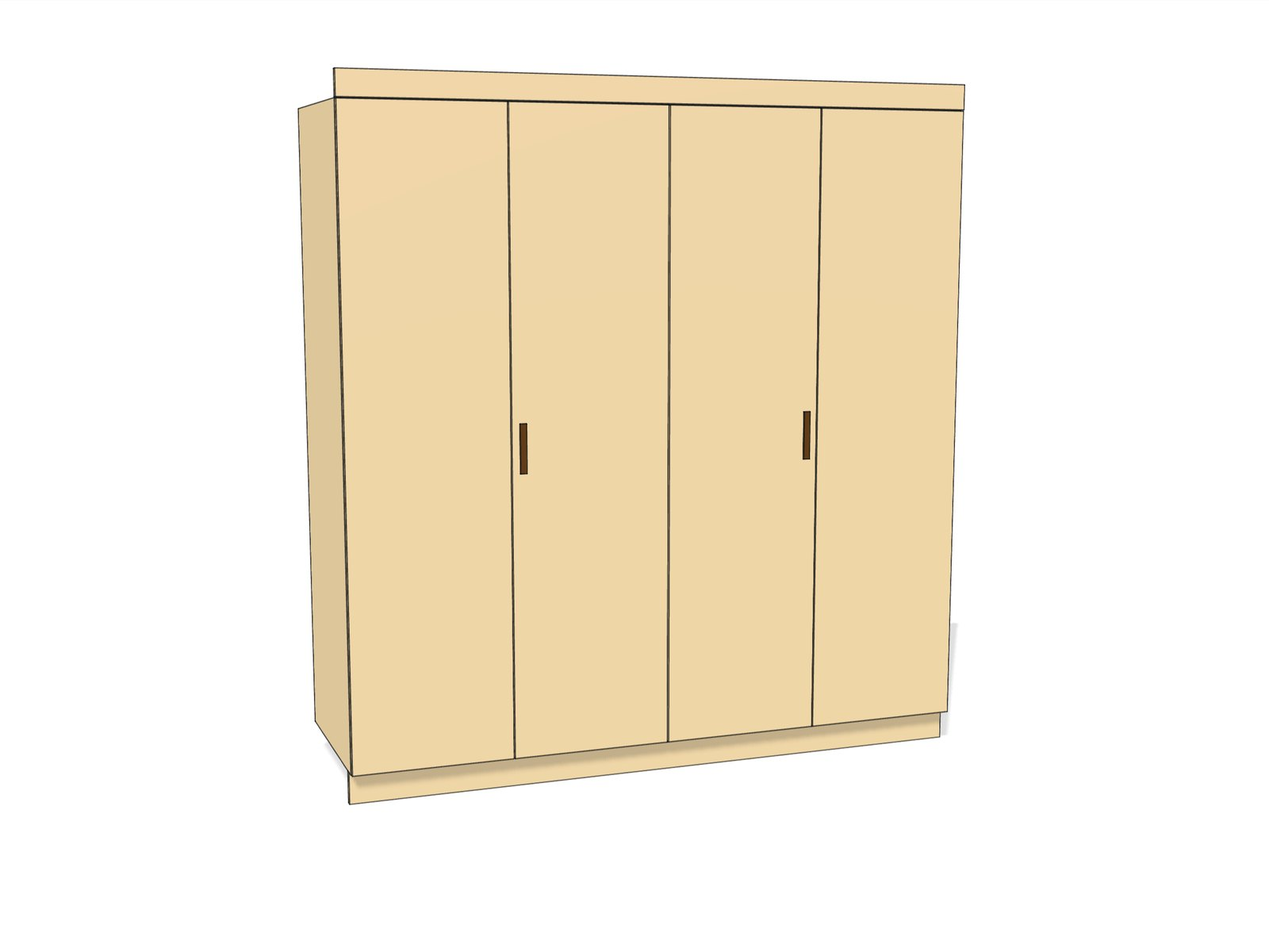
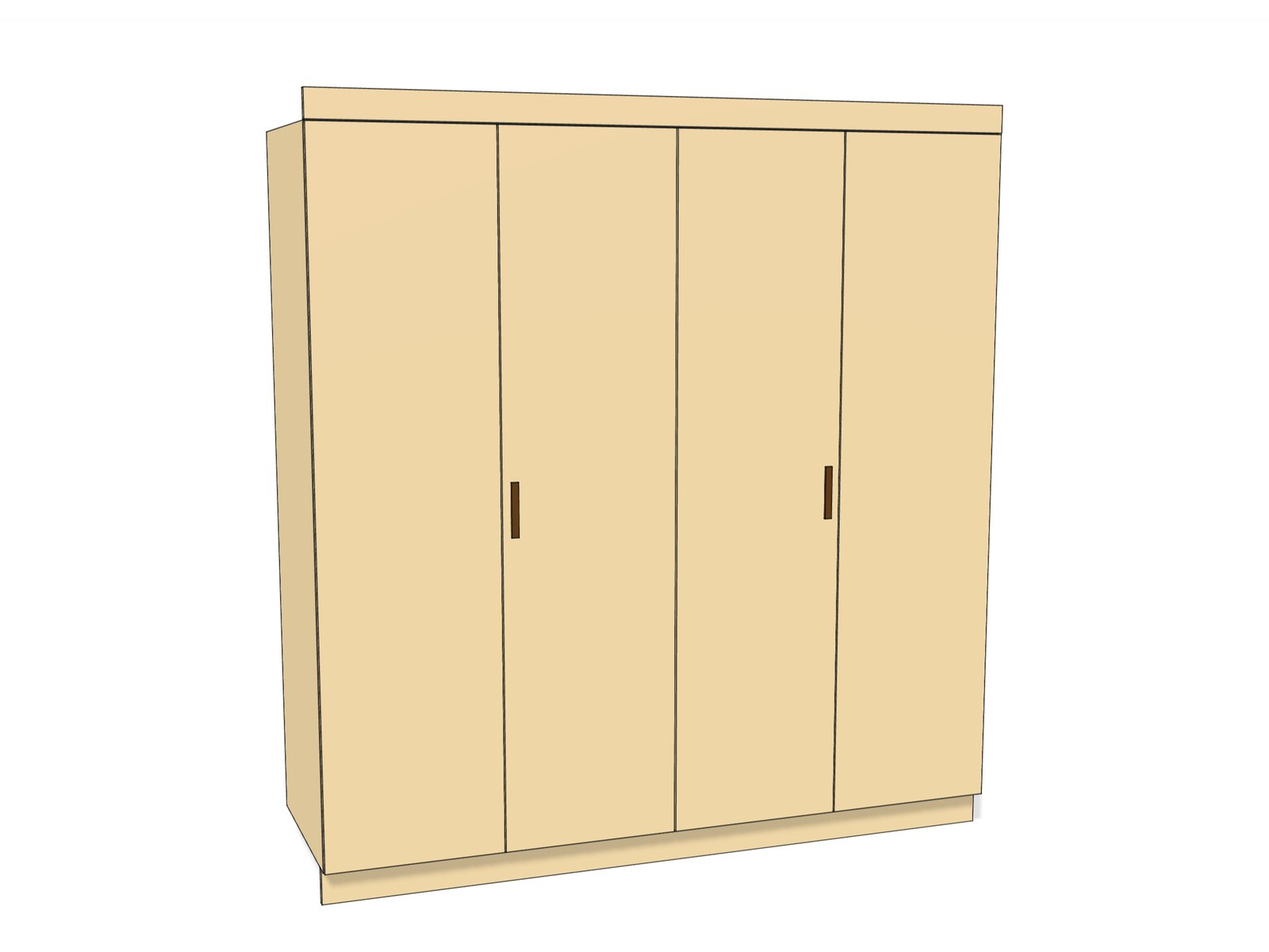
Palmers Green alcove units in 3D; centre every model on its stage
The alcove units (standard sizes, from the photos) are now a SketchUp model on
their job page and in the SketchUp page gallery: shelves either side of the
chimney breast, the cupboard doors open, and it comes apart board by board.
The viewer now frames each model on its parts' corners and aims at the middle of
what shows, so every model sits centred; all stills remade to match. Room context
(walls, fireplace) stays put when a model is taken apart.

Claude-Session: https://claude.ai/code/session_012eDNRTF2RBktVJAkox9SyY

Changed region(s): [[0.1875, 0.0617, 0.8125, 0.9558], [0.625, 0.4317, 0.6562, 0.555]]

diff --git a/src/lib/model3d-scene.ts b/src/lib/model3d-scene.ts
@@ -169,9 +169,11 @@ export async function createModel3D(canvas: HTMLCanvasElement, url: string): Pro
 
   // ---- taking it apart: each top-level piece (with whatever rides on it) sits in its own group, which slides
   // out from the middle of the job; up from the floor rather than from the middle, so nothing sinks below it
+  // room context (walls, a chimney breast, a fireplace): materials called "Wall" or starting "Room"
+  const isRoomMat = (m: THREE.Material) => m.name === 'Wall' || m.name.startsWith('Room');
   const isWall = (o: THREE.Object3D) => {
     let wall = false;
-    o.traverse((m) => { if (m instanceof THREE.Mesh && (m.material as THREE.Material).name === 'Wall') wall = true; });
+    o.traverse((m) => { if (m instanceof THREE.Mesh && isRoomMat(m.material as THREE.Material)) wall = true; });
     return wall;
   };
   const pieces: { g: THREE.Object3D; off: THREE.Vector3 }[] = [];
@@ -191,11 +193,16 @@ export async function createModel3D(canvas: HTMLCanvasElement, url: string): Pro
       const c = boxes[i].getCenter(new THREE.Vector3());
       pieces.push({ g, off: new THREE.Vector3(c.x - mid.x, c.y - solid.min.y, c.z - mid.z).multiplyScalar(APART) });
     });
+    // against a wall, nothing goes back into it: the piece nearest the wall stays there, the rest come forward
+    if (kids.some(isWall) && pieces.length) {
+      const back = Math.min(...pieces.map((p) => p.off.z));
+      if (back < 0) for (const p of pieces) p.off.z -= back;
+    }
   }
 
   // ---- tap a part to see its name (walls are only there for context)
   const pickables: THREE.Mesh[] = [];
-  root.traverse((o) => { if (o instanceof THREE.Mesh && (o.material as THREE.Material).name !== 'Wall') pickables.push(o); });
+  root.traverse((o) => { if (o instanceof THREE.Mesh && !isRoomMat(o.material as THREE.Material)) pickables.push(o); });
   const hlMats = new Map<THREE.Material, THREE.MeshStandardMaterial>();
   let picked: { mesh: THREE.Mesh; base: THREE.Material; at: THREE.Vector3 } | null = null;
   const ray = new THREE.Raycaster();
@@ -259,6 +266,7 @@ export async function createModel3D(canvas: HTMLCanvasElement, url: string): Pro
   const limits = { ...DEFAULT_VIEW, ...info.view };
   let W = 1, H = 1, yaw = limits.yaw, pitch = limits.pitch, dist = 0, need = 0, zoomK = 1;
   const panWant = new THREE.Vector3(), panNow = new THREE.Vector3();
+  const centreNow = new THREE.Vector3(), centreWant = new THREE.Vector3(), base = new THREE.Vector3();
   const right = new THREE.Vector3(), up = new THREE.Vector3();
   const half = box.getSize(new THREE.Vector3()).multiplyScalar(0.5);
   // slide only while zoomed in, and less the further out: at zoom 1 the job is centred again
@@ -270,37 +278,64 @@ export async function createModel3D(canvas: HTMLCanvasElement, url: string): Pro
       THREE.MathUtils.clamp(panWant.z, -half.z * k, half.z * k),
     );
   }
-  const corners = Array.from({ length: 8 }, () => new THREE.Vector3());
-  const fitBox = new THREE.Box3();
+  // framing uses the corners of every part (where it is now: open, apart), not one box round the lot,
+  // so an empty corner of that box (in front of a hearth, say) doesn't push the job off centre
+  const fitMeshes: THREE.Mesh[] = [];
+  root.traverse((o) => { if (o instanceof THREE.Mesh) { o.geometry.computeBoundingBox(); fitMeshes.push(o); } });
+  const pts = Array.from({ length: fitMeshes.length * 8 + labelAt.length }, () => new THREE.Vector3());
+  const partBox = new THREE.Box3();
+  let corners: THREE.Vector3[] = [];
   const q = new THREE.Vector3();
   function place() {
     const dir = new THREE.Vector3(Math.sin(yaw) * Math.cos(pitch), Math.sin(pitch), Math.cos(yaw) * Math.cos(pitch));
     const fwd = dir.clone().negate();
     right.crossVectors(fwd, new THREE.Vector3(0, 1, 0)).normalize();
     up.crossVectors(right, fwd);
-    fitBox.setFromObject(root);
-    if (dimGroup.visible) for (const p of labelAt) fitBox.expandByPoint(p);
-    const { min, max } = fitBox;
+    root.updateMatrixWorld(true);
     let k = 0;
-    for (const x of [min.x, max.x]) for (const y of [min.y, max.y]) for (const z of [min.z, max.z]) corners[k++].set(x, y, z);
+    for (const mesh of fitMeshes) {
+      const { min, max } = partBox.copy(mesh.geometry.boundingBox!).applyMatrix4(mesh.matrixWorld);
+      for (const x of [min.x, max.x]) for (const y of [min.y, max.y]) for (const z of [min.z, max.z]) pts[k++].set(x, y, z);
+    }
+    if (dimGroup.visible) for (const p of labelAt) pts[k++].copy(p);
+    corners = pts.slice(0, k);
     const tv = Math.tan((camera.fov * Math.PI) / 360), th = tv * camera.aspect;
     const m = 0.86; // keep a margin round the edge of the stage
-    need = 0;
-    for (const c of corners) {
-      q.copy(c).sub(target);
-      const x = q.dot(right), y = q.dot(up), z = q.dot(dir);
-      need = Math.max(need, z + Math.abs(x) / (th * m), z + Math.abs(y) / (tv * m));
+    const fit = () => {
+      base.copy(target).add(centreNow);
+      need = 0;
+      for (const c of corners) {
+        q.copy(c).sub(base);
+        const x = q.dot(right), y = q.dot(up), z = q.dot(dir);
+        need = Math.max(need, z + Math.abs(x) / (th * m), z + Math.abs(y) / (tv * m));
+      }
+      // centre the job on the stage: aim at the middle of where its corners land, not the middle of its box
+      let x0 = Infinity, x1 = -Infinity, y0 = Infinity, y1 = -Infinity;
+      for (const c of corners) {
+        q.copy(c).sub(base);
+        const zc = Math.max(1e-3, need - q.dot(dir)), sx = q.dot(right) / zc, sy = q.dot(up) / zc;
+        x0 = Math.min(x0, sx); x1 = Math.max(x1, sx); y0 = Math.min(y0, sy); y1 = Math.max(y1, sy);
+      }
+      centreWant.copy(centreNow).addScaledVector(right, ((x0 + x1) / 2) * need).addScaledVector(up, ((y0 + y1) / 2) * need);
+    };
+    if (!dist) {
+      // first frame (or after a resize): settle the framing at once, so the job doesn't drift into place
+      for (let i = 0; i < 8; i++) { fit(); centreNow.copy(centreWant); }
+      fit();
+    } else {
+      fit();
+      centreNow.lerp(centreWant, 0.18);
     }
     const want = need * zoomK;
     dist = dist ? dist + (want - dist) * 0.18 : want; // ease, so opening the lids or zooming doesn't jolt the view
     panNow.lerp(panWant, 0.3);
-    const aim = q.copy(target).add(panNow);
+    const aim = q.copy(target).add(centreNow).add(panNow);
     camera.position.copy(aim).addScaledVector(dir, dist);
     camera.up.set(0, 1, 0);
     camera.lookAt(aim);
     camera.near = Math.max(0.02, dist - span * 1.5); camera.far = dist + span * 3;
     camera.updateProjectionMatrix();
-    return Math.abs(want - dist) > 0.002 || panNow.distanceToSquared(panWant) > 1e-8;
+    return Math.abs(want - dist) > 0.002 || panNow.distanceToSquared(panWant) > 1e-8 || centreNow.distanceToSquared(centreWant) > 1e-8;
   }
   const toNdc = (x: number, y: number) => new THREE.Vector2((x / W) * 2 - 1, 1 - (y / H) * 2);
 

diff --git a/scripts/su-readback.py b/scripts/su-readback.py
@@ -1,0 +1,38 @@
+"""Turns a SketchUp read-back (the padded build_model answer saved by the connector) into scripts/models/<job>.su.json.
+
+    python3 scripts/su-readback.py <tool-result file> <meta.json> scripts/models/<job>.su.json
+
+The read-back is `result = {"readback": export_model(), "pad": "x" * 120000}` from a build_model call:
+export_model() walks the model's groups and component instances and returns
+{geoms: {key: {v, f, e}}, parts: [{n, m, g, t?}], materials: {name: [r, g, b]}} in mm (see su-to-glb.mjs).
+meta.json holds what SketchUp does not: name, source, materials (overrides with roughness, metalness,
+emissive), moves, dims (real sizes only), view, actions, secs. Material colours not in meta come from SketchUp.
+"""
+import json
+import sys
+
+src, meta_path, out_path = sys.argv[1:4]
+raw = open(src).read()
+data = json.loads(raw[raw.index('{'):raw.rindex('}') + 1])
+rb = data['result']['readback'] if 'result' in data else data['readback']
+meta = json.load(open(meta_path))
+
+materials = {n: c for n, c in rb['materials'].items()}
+for n, m in (meta.get('materials') or {}).items():
+    materials[n] = m
+names = {p['n'] for p in rb['parts']}
+for owner, mv in (meta.get('moves') or {}).items():
+    for n in [owner, *mv.get('with', [])]:
+        if n not in names:
+            sys.exit(f'moves: no part called "{n}". Parts: {sorted(names)}')
+
+out = {
+    'name': meta['name'],
+    'source': meta['source'],
+    'materials': materials,
+    **{k: meta[k] for k in ('moves', 'dims', 'view', 'actions', 'secs') if k in meta},
+    'geoms': rb['geoms'],
+    'parts': rb['parts'],
+}
+json.dump(out, open(out_path, 'w'), separators=(',', ':'))
+print(f"{out_path}: {len(rb['parts'])} parts, {len(rb['geoms'])} shapes, materials {list(materials)}")

diff --git a/CLAUDE.md b/CLAUDE.md
@@ -84,7 +84,7 @@ Rafal Janczy — carpenter based in London, UK. Builds bespoke kitchens, wardrob
 - **Raf's kit**: mostly DeWalt power tools and Festool (TSC 55 KEB track saw, FS 1400/2-LR 32 rail), plus a Makita DRT50 trim router, Stabila TECH 196 electronic level, Henry vacuum. The old Makita track saw/drill/jigsaw guesses were replaced on the Tools page, the cut-list post and the Products tab.
 - **Curved seat (Kennington)**: has the SketchUp model (front, left, right views from "3 Drawings") beside the built seat, plus both hand sketches. Its planSale previews are filled in (no dimensions); it shows once a Payhip buyUrl is added. When replacing a job image, give it a new file name so cached copies are not served.
 - **More photos and clips per job (4 Oct 2026)**: job JSONs can have `buildPhotos` (extra build photos: "More from the build" section after Photos, squares, 12 shown then "Show all N build photos", full-screen viewer; src/components/project/BuildPhotos.tsx) and `clips` ({src, poster, caption}: "On video" section after the steps; one clip sits beside its caption, two or more in a row of portrait clips; muted, play when on screen, 720 px wide H.264 CRF 29, 1.8 to 3 MB each, cut to 24 s or less; poster = sharpest frame). Steps can now run past five: on a computer they wrap into rows of 3 or 4 (stepCols in the page). Done for the five fullest folders (Raf said yes, 4 Oct 2026): reception desk Brentwood (8 steps, 16 build, +4 finished, 1 clip), decking Camden Town (8 steps, 13 build, +6 finished; its clips were a talking selfie and a close-up of a door panel, not used), kitchen panelling Crouch End (8 steps incl. pipes, dado side, wall cupboard; 16 build, +3, 1 clip of the hood), walnut desk Highbury (5 steps, step 3 photo swapped for a sharper one, 12 build, +5, 3 clips), birch ply room Chiswick (steps unchanged, 7 build, +6). New step text is written from the photos only (no sizes, materials or claims beyond what shows). New files are named step-/b-/g-<hash>.jpg so nothing old is served from cache. How it was done: stage the folder's photos and clips, run `python3 scripts/job-contact-sheets.py OUTDIR "slug=Folder name"` (numbered sheets in time order, with sharpness and an ON mark for photos already on the page), pick by number, then process like the other photos (upright, no metadata, 1600 px, light correction). Batch 2 (4 Oct 2026, Raf said "next batch"): window seat Bounds Green (7 steps incl. measured up, insulation boards; 14 build; its 4-minute build video IMG_9792.MOV, 333 MB, timed out staging), TV unit and bookcase Haringey (5 steps incl. cut in the room; 12 build; +1 finished; its clip is a talking selfie, not used), curved seat Kennington (7 steps incl. straight cuts on the rail, bent to the curve; 14 build; 2 more clips; its two finished photos show another person, not used), window seat and alcove cabinet East Finchley (folder has finished photos only: +6 finished, 1 more clip), bookcase with radiator cover East Finchley (6 steps incl. laser for the shelves; 6 build; +1 finished; 1 clip). Pages that already had a main video call the clips section "More on video". Still to do the same way: the other 21 jobs, and the long Chiswick (IMG_9475.MOV, 691 MB) and Bounds Green (IMG_9792.MOV, 333 MB) build videos, which would need cutting down on the Mac first.
-- **3D SketchUp models on job pages (9 Oct 2026, Raf said "Use Trimble SketchUp for this", then "Do this one", then "Do 1 by 1" down the list)**: live on the Kings Park L-shaped bench (lids lift) and the Palmers Green loft wardrobe by the window (Raf: the IKEA planner drawing is the 4-door wardrobe by the window; doors in two pairs as in the photos; built to the planner's 1998 x 2012 x 580, two 999 mm PAX frames, a 500 mm unit of 4 wire baskets on the left of each and a rail; MDF boxing to the ceiling left off as its sizes are unknown; doors open, then baskets slide out). Bowes Park vanity (live, 9 Oct 2026): no drawing and no sizes, Raf said 'Make them standard', so it is drawn from the photos at 600 x 580 x 450, 158 mm fronts, 60 mm plinth; the page says 'at standard vanity sizes rather than measured ones' and shows no dimension lines; drawers slide out (top one with the U box round the waste pipe). Jobs without a drawing use top-level `model3d` (its own section on the job page). Kennington curved seat (live, 9 Oct 2026): Raf gave 150 cm at the back and 120 cm at the front (taken as straight end-to-end lengths); depth and height 450 are standard; so radii 1800 front / 2250 back, 38.9 degrees; curved front with three raised panels, radial ends, recessed plinth, two boxes, one lid hinged on the straight back line (his sketch) with a fixed strip behind; dimension lines only for his two sizes; page says depth and height are standard. Highbury walnut desk (live, 9 Oct 2026, 'Yes number 4', standard sizes like the vanity): 2000 wall to wall, 550 deep, top at 740, 25 mm top, batten, five 18 mm dividers, four handle-less drawers with a finger lip that slide out; plain walls 1000 high for context. **SketchUp page 'Real jobs, in 3D' (9 Oct 2026, Raf: 'can we also have those 3d SketchUp model interactive in SketchUp page with redirection to the relevant project, I think it's a big thing')**: section #in-3d straight after the hero on /sketchup: a row of stills to pick a job (sideways scroll on a phone), one viewer (src/components/project/ModelGallery.tsx, Model3D with the fixed 'gallery' frame, remounted per job so only one 3D view runs), 'See the job' link; the list is every job with plan.model3d or model3d, so new models appear by themselves; jobs with `standardSizes: true` show '· standard sizes'. Title and intro are TinaCMS fields models3dTitle / models3dIntro on the SketchUp page (tina-lock.json regenerated). Chiswick four-door birch ply wardrobe (live, 9 Oct 2026, standard sizes after Raf's 'please continue'): 2000 x 2150 x 600, two carcasses on a plinth, left two bays with rails, shelves and lift-out floor panels over boxes, right shelves over three drawers, four doors in two pairs, LED strips (glowing material: `emissive` in the model file's materials); doors open, drawers slide out, floor panels come forward and up. Still on the list: the SketchUp-page wardrobe 2160 x 2150, sections 525/1110/525 (needs depth). **Viewer features (9 Oct 2026, Raf: 'model viewer can do some more features, just curious to make more interactive page')**: on every model, job pages and the SketchUp gallery alike: zoom (+ / - buttons top right of the stage, pinch with two fingers on a phone (moving them slides the view), trackpad pinch or Ctrl + scroll on a computer, plain scroll only in full screen so the page still scrolls; Shift-drag or right-drag slides; sliding only while zoomed in and it re-centres as you zoom out), a 'Back to the start view' button once turned or zoomed, full screen (covers the page, real full screen where the browser allows, Esc closes; drag turns any way there), 'Take it apart' / 'Put it back together' (each top-level part with its riders pulled out from the middle by 0.55 of its distance, up from the floor so nothing sinks; parts with the material 'Wall' stay put; sizes are hidden while apart), and tap a part to see its name (it turns light blue and a dark label shows the part name from the model, trailing heights like 'Shelf A 1900' cut to 'Shelf A'; tap an empty spot to clear). Part names reach the page as node extras `part` (su-to-glb.mjs), so name parts in plain English when building. Poster scripts must hide `.m3d-tools` (the zoom buttons) before the screenshot. Restart the local server with scratchpad restart.sh (pkill patterns anchored with ^ so the shell isn't killed). The model is built in the Trimble SketchUp connector (mcp__Trimble_SketchUp__build_model, inches inside the API) to the sizes on Raf's drawing, as named parts (18 mm boards, lids as their own parts), then read back face by face (outer + inner loops, visible edges) into scripts/models/<slug>.su.json, which also holds the materials, what moves (`moves`: hinge {origin, axis, angle} or slide {offset}, each with its slot `at` in the open animation and `with` for knobs that ride along), the dimension lines, the opening view and turn limits (`view`), the button words (`actions`) and `secs` (SketchUp axes, mm; the script's header explains the format). Getting the read-back out: return it from build_model with a ~120,000-character padding field so the connector's answer is too long and gets saved as a file in the tool-results folder; parse that file (no copying by hand). Shared shapes (a door, a knob, a frame part) are kept once under `geoms` with a 3x4 transform per copy, as SketchUp components are. `node scripts/su-to-glb.mjs scripts/models/<slug>.su.json public/models/<slug>.glb` makes the web file (checks every part is closed; about 46 KB for the bench; gltf-validator: no errors). The connector has no glTF/COLLADA export and this workspace cannot download its .skp links (Raf can, in his browser); it also cannot open Raf's own .skp files, so each job is rebuilt from its drawing's sizes. Job JSON: `plan.model3d` {src, poster (a still of the opening view, shown until the 3D is ready and if there is no WebGL: 1600x800 for wide pieces, 1600x1200 with `shape: "tall"` for wardrobes), title, text, shape}. Shown by src/components/project/Model3D.tsx inside PlanDrawings (under the drawing and photo, above 'More drawings'); three.js + the model load only when it is near the screen (src/lib/model3d-scene.ts). Drag to turn (sideways only on a phone so the page scrolls; turning is limited to the room side), slow swing until touched, 'Lift the lids' (each lid turns on its hinge, one after another), 'Show the sizes' (blue dimension lines like the drawings), SketchUp-style dark edges on MDF-coloured faces. The text says "modelled in SketchUp to the sizes on the drawing": it is a rebuild from the drawing, not Raf's original file. Make the poster from the page with reduced motion on (no swing) so it matches the opening view.
+- **3D SketchUp models on job pages (9 Oct 2026, Raf said "Use Trimble SketchUp for this", then "Do this one", then "Do 1 by 1" down the list)**: live on the Kings Park L-shaped bench (lids lift) and the Palmers Green loft wardrobe by the window (Raf: the IKEA planner drawing is the 4-door wardrobe by the window; doors in two pairs as in the photos; built to the planner's 1998 x 2012 x 580, two 999 mm PAX frames, a 500 mm unit of 4 wire baskets on the left of each and a rail; MDF boxing to the ceiling left off as its sizes are unknown; doors open, then baskets slide out). Bowes Park vanity (live, 9 Oct 2026): no drawing and no sizes, Raf said 'Make them standard', so it is drawn from the photos at 600 x 580 x 450, 158 mm fronts, 60 mm plinth; the page says 'at standard vanity sizes rather than measured ones' and shows no dimension lines; drawers slide out (top one with the U box round the waste pipe). Jobs without a drawing use top-level `model3d` (its own section on the job page). Kennington curved seat (live, 9 Oct 2026): Raf gave 150 cm at the back and 120 cm at the front (taken as straight end-to-end lengths); depth and height 450 are standard; so radii 1800 front / 2250 back, 38.9 degrees; curved front with three raised panels, radial ends, recessed plinth, two boxes, one lid hinged on the straight back line (his sketch) with a fixed strip behind; dimension lines only for his two sizes; page says depth and height are standard. Highbury walnut desk (live, 9 Oct 2026, 'Yes number 4', standard sizes like the vanity): 2000 wall to wall, 550 deep, top at 740, 25 mm top, batten, five 18 mm dividers, four handle-less drawers with a finger lip that slide out; plain walls 1000 high for context. **SketchUp page 'Real jobs, in 3D' (9 Oct 2026, Raf: 'can we also have those 3d SketchUp model interactive in SketchUp page with redirection to the relevant project, I think it's a big thing')**: section #in-3d straight after the hero on /sketchup: a row of stills to pick a job (sideways scroll on a phone), one viewer (src/components/project/ModelGallery.tsx, Model3D with the fixed 'gallery' frame, remounted per job so only one 3D view runs), 'See the job' link; the list is every job with plan.model3d or model3d, so new models appear by themselves; jobs with `standardSizes: true` show '· standard sizes'. Title and intro are TinaCMS fields models3dTitle / models3dIntro on the SketchUp page (tina-lock.json regenerated). Chiswick four-door birch ply wardrobe (live, 9 Oct 2026, standard sizes after Raf's 'please continue'): 2000 x 2150 x 600, two carcasses on a plinth, left two bays with rails, shelves and lift-out floor panels over boxes, right shelves over three drawers, four doors in two pairs, LED strips (glowing material: `emissive` in the model file's materials); doors open, drawers slide out, floor panels come forward and up. Still on the list: the SketchUp-page wardrobe 2160 x 2150, sections 525/1110/525 (needs depth). **Viewer features (9 Oct 2026, Raf: 'model viewer can do some more features, just curious to make more interactive page')**: on every model, job pages and the SketchUp gallery alike: zoom (+ / - buttons top right of the stage, pinch with two fingers on a phone (moving them slides the view), trackpad pinch or Ctrl + scroll on a computer, plain scroll only in full screen so the page still scrolls; Shift-drag or right-drag slides; sliding only while zoomed in and it re-centres as you zoom out), a 'Back to the start view' button once turned or zoomed, full screen (covers the page, real full screen where the browser allows, Esc closes; drag turns any way there), 'Take it apart' / 'Put it back together' (each top-level part with its riders pulled out from the middle by 0.55 of its distance, up from the floor so nothing sinks; parts with the material 'Wall' stay put; sizes are hidden while apart), and tap a part to see its name (it turns light blue and a dark label shows the part name from the model, trailing heights like 'Shelf A 1900' cut to 'Shelf A'; tap an empty spot to clear). Part names reach the page as node extras `part` (su-to-glb.mjs), so name parts in plain English when building. Poster scripts must hide `.m3d-tools` (the zoom buttons) before the screenshot. Restart the local server with scratchpad restart.sh (pkill patterns anchored with ^ so the shell isn't killed). Framing (9 Oct 2026): the camera fits the corners of every part where it is now (open, apart) and aims at the middle of where they land on screen, settled at once on the first frame, so every model sits centred; all stills were remade after this change (scratchpad poster.js + poster-fit.py). Room context: materials 'Wall' or starting 'Room' (e.g. 'Room: cast iron' fireplace) stay put when taken apart and can't be tapped; against a wall, taken-apart pieces only come forward. **More models (9 Oct 2026, Raf: 'If you don't know use standard size and do all points')**: (1) Palmers Green alcove units (standard sizes): 2600 high to the cornice, 350 deep, 18 mm MDF with 18 mm backs, 80 plinth; left alcove 850 wide full-height shelving with six shelves; right alcove 1000 wide, three shelves over a two-door cupboard (top at 888, one shelf inside), inset doors with round wooden knobs where they meet; chimney breast, back wall and a plain cast iron fireplace for context. Build tools: scripts/su-readback.py turns the padded read-back file plus a meta JSON (name, source, materials, moves, view, actions, secs) into the .su.json; the SketchUp helper code (mm helpers box / holed_y / cyl_y / part / assembly and export_model) is kept in the build_model calls of this session (export_model walks groups and component instances, naming 'Assembly: Part'). The model is built in the Trimble SketchUp connector (mcp__Trimble_SketchUp__build_model, inches inside the API) to the sizes on Raf's drawing, as named parts (18 mm boards, lids as their own parts), then read back face by face (outer + inner loops, visible edges) into scripts/models/<slug>.su.json, which also holds the materials, what moves (`moves`: hinge {origin, axis, angle} or slide {offset}, each with its slot `at` in the open animation and `with` for knobs that ride along), the dimension lines, the opening view and turn limits (`view`), the button words (`actions`) and `secs` (SketchUp axes, mm; the script's header explains the format). Getting the read-back out: return it from build_model with a ~120,000-character padding field so the connector's answer is too long and gets saved as a file in the tool-results folder; parse that file (no copying by hand). Shared shapes (a door, a knob, a frame part) are kept once under `geoms` with a 3x4 transform per copy, as SketchUp components are. `node scripts/su-to-glb.mjs scripts/models/<slug>.su.json public/models/<slug>.glb` makes the web file (checks every part is closed; about 46 KB for the bench; gltf-validator: no errors). The connector has no glTF/COLLADA export and this workspace cannot download its .skp links (Raf can, in his browser); it also cannot open Raf's own .skp files, so each job is rebuilt from its drawing's sizes. Job JSON: `plan.model3d` {src, poster (a still of the opening view, shown until the 3D is ready and if there is no WebGL: 1600x800 for wide pieces, 1600x1200 with `shape: "tall"` for wardrobes), title, text, shape}. Shown by src/components/project/Model3D.tsx inside PlanDrawings (under the drawing and photo, above 'More drawings'); three.js + the model load only when it is near the screen (src/lib/model3d-scene.ts). Drag to turn (sideways only on a phone so the page scrolls; turning is limited to the room side), slow swing until touched, 'Lift the lids' (each lid turns on its hinge, one after another), 'Show the sizes' (blue dimension lines like the drawings), SketchUp-style dark edges on MDF-coloured faces. The text says "modelled in SketchUp to the sizes on the drawing": it is a rebuild from the drawing, not Raf's original file. Make the poster from the page with reduced motion on (no swing) so it matches the opening view.
 - **Sharper stills from video (3 Oct 2026)**: the Palmers Green chimney-breast wardrobes job has no finished photos, only 1080 x 1920 clips, and its cover/blog hero had been taken mid-pan (blurry). Replaced with frame 2286 of IMG_2534.MOV (about 76.3 s), chosen by scoring every frame for sharpness (Laplacian variance: old 14, new about 250 to 330), then light denoise + unsharp mask: cover-sharp.jpg and blog hero-sharp.jpg. For future video-only jobs, pick stills the same way rather than at fixed times. g1 and g4 of that job are still soft (scores 32 and 19).
 
 ## Key Files
